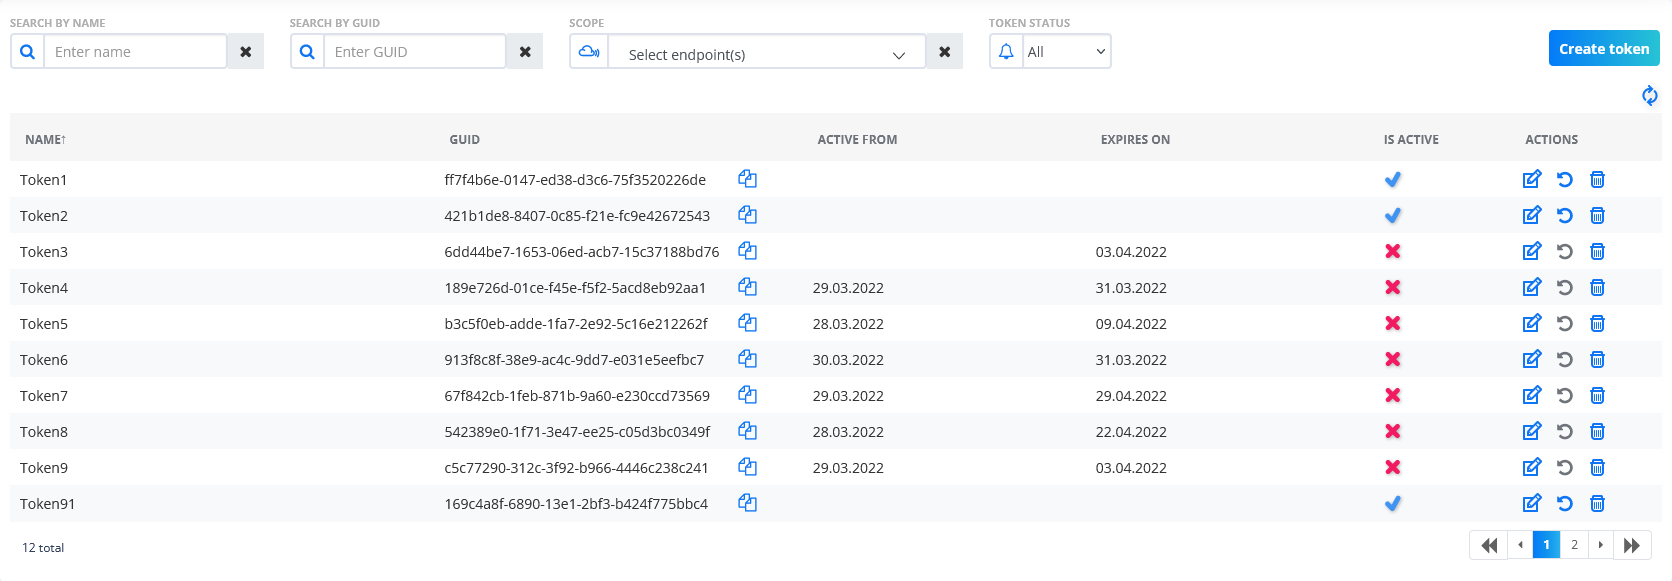
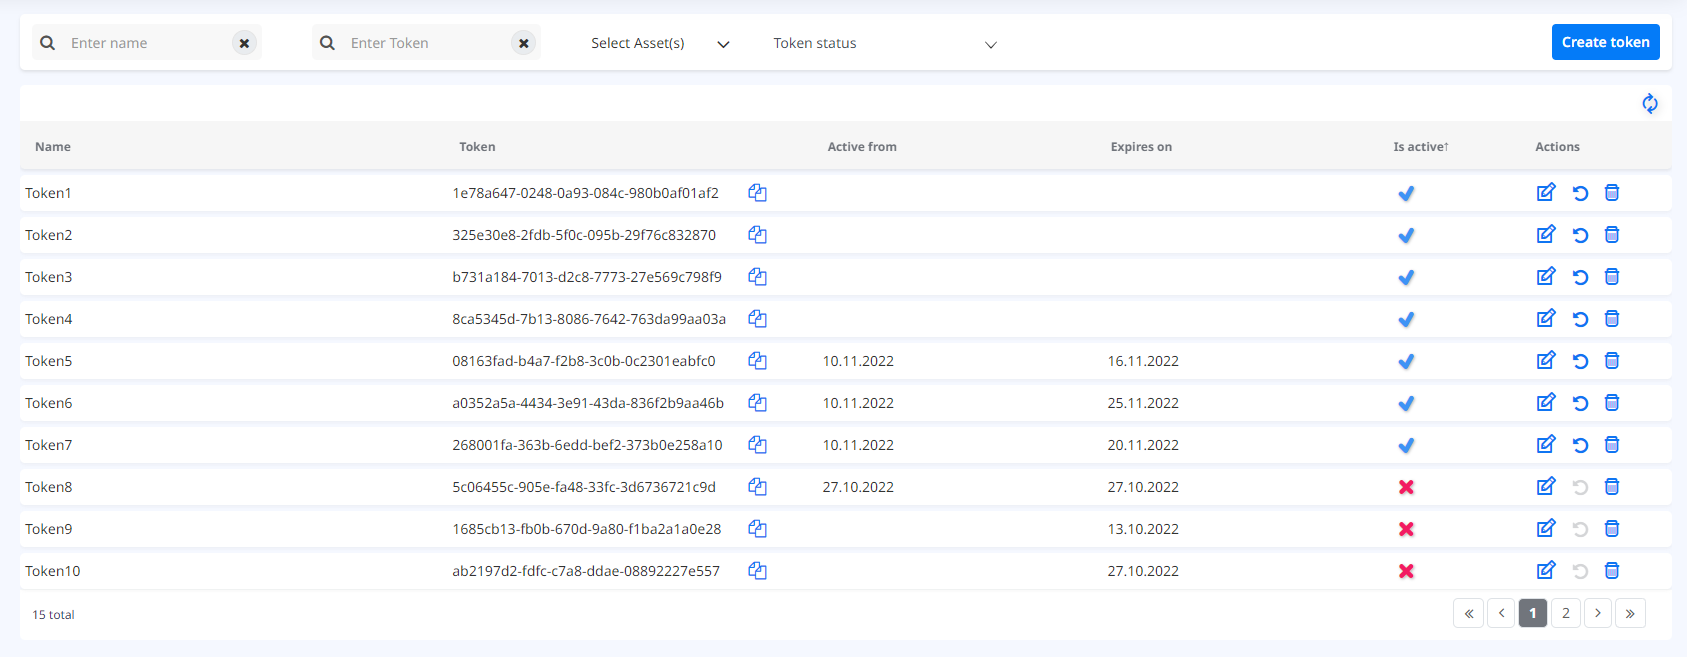
Update API Tokens usage docs

diff --git a/docs/settings/api-tokens/index.html b/docs/settings/api-tokens/index.html
@@ -201,6 +201,7 @@ if (!doNotTrack) {
     <li><a href="#edit-token">Edit token</a></li>
     <li><a href="#delete-token">Delete token</a></li>
     <li><a href="#revoke-token">Revoke token</a></li>
+    <li><a href="#usage-of-api-tokens">Usage of API Tokens</a></li>
   </ul>
 </nav>
 </div>
@@ -221,23 +222,23 @@ if (!doNotTrack) {
 </p>
 
 <figure class="image_container">
-    <img class="center_image myImg" onClick="reply_click(this)"  id="apiTokensView" src="/apiTokensView.png" alt="API Tokens View">
-    <figcaption>Fig 1. APi Tokens View</figcaption>
+    <img class="center_image myImg" onClick="reply_click(this)"  id="apiTokensView" src="/APITokensView.png" alt="API Tokens View">
+    <figcaption>Fig 1. API Tokens View</figcaption>
 </figure>
-<p>The table lists all the API Tokens for selected Scopes that are available for the current User. The table shows the name, GUID, Active from date, Expiration date, and Token status information (Is active column). You can filter the content in the table by activating the Search by name, Search by GUID, Scope and Token status filters.</p>
+<p>The table lists all the API Tokens for selected Scopes that are available for the current User. The table shows the name, GUID, Active from date, Expiration date, and Token status information (Is active column). You can filter the content in the table by name, Token, Asset(s) and Token status filters.</p>
 <figure class="image_container">
-    <img class="center_image myImg" onClick="reply_click(this)"  id="apiTokensFiltersOptions" src="/apiTokensFiltersOptions.png" alt="API Tokens Filters">
-    <figcaption>Fig 2. APi Tokens Filters</figcaption>
+    <img class="center_image myImg" onClick="reply_click(this)"  id="apiTokensFiltersOptions" src="/APITokensFilters.png" alt="API Tokens Filters">
+    <figcaption>Fig 2. API Tokens Filters</figcaption>
 </figure>
-<p>In the Search by Name filter you can search by one or more keywords and filter your Tokens by name. In the Search by GUID filter you can search tokens by GUID. You can easily copy Token’s GUID by clicking the <img src="/apiTokensCopy.png"> button, right next to the GUID value in the GUID column. In the <a href="/glossary#scope">Scopes</a> filter, the user can filter the Tokens by the scopes that are assigned to the current User. In the Token status filter the user can filter the Tokens by their status (Active or Inactive). 
+<p>In the Name search filter you can search by one or more keywords and filter your Tokens by name. In the Token search filter you can search tokens by Token. You can easily copy Token’s token GUID by clicking the <img src="/apiTokensCopy.png"> button, right next to the Token value in the Token column. In the <a href="/glossary#assetScope">Assets</a> filter, the user can filter the Tokens by the asset scopes that are assigned to the current User. In the Token status filter the user can filter the Tokens by their status (Active or Inactive). 
 You can sort the table content by Name and by Is active columns.</p>
 <h2 id="create-token">Create token</h2>
 <p>If you click the <img src="/apiTokensCreateButton.png"> button a popup form appears</p>
 <figure class="image_container">
-    <img class="center_image myImg" onClick="reply_click(this)"  id="apiTokensCreateTokensPopUp" src="/apiTokensCreateTokensPopUp.png" alt="Create API Token">
-    <figcaption>Fig 3. Create APi Token</figcaption>
+    <img class="center_image myImg" onClick="reply_click(this)"  id="apiTokensCreateTokensPopUp" src="/CreateAPIToken.png" alt="Create API Token">
+    <figcaption>Fig 3. Create API Token</figcaption>
 </figure>
-<p>Name and <a href="/glossary#scope">Scopes</a> fields are required. GUID field is automatically populated and disabled, it cannot be edited. In order to copy the GUID value click on the <img src="/apiTokensCopy1.png"> button. If you want to regenerate a new GUID value, click on the <img src="/apiTokensRegenerate.png"> button. Description, Valid from and Valid to fields are optional. If you create a token without Valid from and Valid to values, the token is active from the moment of creation and will be active forever. Past dates in the calendar menu are disabled.</p>
+<p>Name and <a href="/glossary#assetScope">Assets</a> fields are required. Token field is automatically populated and disabled, it cannot be edited. In order to copy the Token GUID value click on the <img src="/apiTokensCopy1.png"> button. If you want to regenerate a new Token GUID value, click on the <img src="/apiTokensRegenerate.png"> button. Description, Valid from and Valid to fields are optional. If you create a token without Valid from and Valid to values, the token is active from the moment of creation and will be active forever. Past dates in the calendar menu are disabled.</p>
 <figure class="image_container">
     <img class="center_image myImg" onClick="reply_click(this)"  id="apiTokensCalendar" src="/apiTokensCalendar.png" alt="apiTokensCalendar"  style="width: 35%;">
 <figcaption>Fig 4. Calendar</figcaption>
@@ -247,7 +248,7 @@ After you are done configuring the token save the token by clicking the <img src
 <h2 id="edit-token">Edit token</h2>
 <p>To edit a token, click the <img src="/apiTokensEdit.png"> button after which a filled form will appear in which you can make the changes.</p>
 <figure class="image_container">
-    <img class="center_image myImg" onClick="reply_click(this)"  id="apiTokensEditPopUp" src="/apiTokensEditPopUp.png" alt="Edit Token" >
+    <img class="center_image myImg" onClick="reply_click(this)"  id="apiTokensEditPopUp" src="/EditAPIToken.png" alt="Edit Token" >
 <figcaption>Fig 5. Edit Token</figcaption>
 </figure>
 <h2 id="delete-token">Delete token</h2>
@@ -261,6 +262,16 @@ After you are done configuring the token save the token by clicking the <img src
 <figure class="image_container">
     <img class="center_image myImg" onClick="reply_click(this)"  id="apiTokensRevokePopUp" src="/apiTokensRevokePopUp.png" alt="Revoke Token" style="width: 35%;">
 <figcaption>Fig 7. Revoke Token</figcaption>
+</figure>
+<h2 id="usage-of-api-tokens">Usage of API Tokens</h2>
+<p>You can use API Tokens in API requests by tool for API requests. In order to get the latest values for selected tags in the token, 
+a GET request should be made to URL <a href="https://api.qlarm.com/api/apiTokenAccess/getTagsByToken">https://api.qlarm.com/api/apiTokenAccess/getTagsByToken</a> with two request headers: <br>
+header name: &ldquo;Tenant&rdquo;, header value: (e.g.)&ldquo;Tenant_name&rdquo; and <br />
+header name: &ldquo;ApiToken&rdquo;, header value: (e.g. see Fig 1)&ldquo;7c9fc2bf-f94a-b554-6b75-9d4ff6b5025d&rdquo;.</p>
+<p>ApiToken header value can be copied from Qlarm API Tokens page. Using this getTagsByToken API request, the user will be able to get the latest values for token&rsquo;s selected tags, in the response.</p>
+<figure class="image_container">
+    <img class="center_image myImg" onClick="reply_click(this)"  id="copyTokenForHeader" src="/CopyToken.png" alt="Copy API Token for request header" style="width: 35%;">
+<figcaption>Fig 8. Copy API Token for request header </figcaption>
 </figure>
 <script>
 // Get the modal

diff --git a/content/settings/api-tokens/_index.md b/content/settings/api-tokens/_index.md
@@ -16,18 +16,18 @@ In the API Tokens page you can list, create, edit, delete and revoke API Tokens.
 {{</lead>}}
 
 <figure class="image_container">
-    <img class="center_image myImg" onClick="reply_click(this)"  id="apiTokensView" src="/apiTokensView.png" alt="API Tokens View">
-    <figcaption>Fig 1. APi Tokens View</figcaption>
+    <img class="center_image myImg" onClick="reply_click(this)"  id="apiTokensView" src="/APITokensView.png" alt="API Tokens View">
+    <figcaption>Fig 1. API Tokens View</figcaption>
 </figure>
 
-The table lists all the API Tokens for selected Scopes that are available for the current User. The table shows the name, GUID, Active from date, Expiration date, and Token status information (Is active column). You can filter the content in the table by activating the Search by name, Search by GUID, Scope and Token status filters. 
+The table lists all the API Tokens for selected Scopes that are available for the current User. The table shows the name, GUID, Active from date, Expiration date, and Token status information (Is active column). You can filter the content in the table by name, Token, Asset(s) and Token status filters. 
 
 <figure class="image_container">
-    <img class="center_image myImg" onClick="reply_click(this)"  id="apiTokensFiltersOptions" src="/apiTokensFiltersOptions.png" alt="API Tokens Filters">
-    <figcaption>Fig 2. APi Tokens Filters</figcaption>
+    <img class="center_image myImg" onClick="reply_click(this)"  id="apiTokensFiltersOptions" src="/APITokensFilters.png" alt="API Tokens Filters">
+    <figcaption>Fig 2. API Tokens Filters</figcaption>
 </figure>
 
-In the Search by Name filter you can search by one or more keywords and filter your Tokens by name. In the Search by GUID filter you can search tokens by GUID. You can easily copy Token’s GUID by clicking the <img src="/apiTokensCopy.png"> button, right next to the GUID value in the GUID column. In the [Scopes](/glossary#scope) filter, the user can filter the Tokens by the scopes that are assigned to the current User. In the Token status filter the user can filter the Tokens by their status (Active or Inactive). 
+In the Name search filter you can search by one or more keywords and filter your Tokens by name. In the Token search filter you can search tokens by Token. You can easily copy Token’s token GUID by clicking the <img src="/apiTokensCopy.png"> button, right next to the Token value in the Token column. In the [Assets](/glossary#assetScope) filter, the user can filter the Tokens by the asset scopes that are assigned to the current User. In the Token status filter the user can filter the Tokens by their status (Active or Inactive). 
 You can sort the table content by Name and by Is active columns.
 
 ## Create token
@@ -35,11 +35,11 @@ You can sort the table content by Name and by Is active columns.
 If you click the <img src="/apiTokensCreateButton.png"> button a popup form appears
 
 <figure class="image_container">
-    <img class="center_image myImg" onClick="reply_click(this)"  id="apiTokensCreateTokensPopUp" src="/apiTokensCreateTokensPopUp.png" alt="Create API Token">
-    <figcaption>Fig 3. Create APi Token</figcaption>
+    <img class="center_image myImg" onClick="reply_click(this)"  id="apiTokensCreateTokensPopUp" src="/CreateAPIToken.png" alt="Create API Token">
+    <figcaption>Fig 3. Create API Token</figcaption>
 </figure>
 
-Name and [Scopes](/glossary#scope) fields are required. GUID field is automatically populated and disabled, it cannot be edited. In order to copy the GUID value click on the <img src="/apiTokensCopy1.png"> button. If you want to regenerate a new GUID value, click on the <img src="/apiTokensRegenerate.png"> button. Description, Valid from and Valid to fields are optional. If you create a token without Valid from and Valid to values, the token is active from the moment of creation and will be active forever. Past dates in the calendar menu are disabled.
+Name and [Assets](/glossary#assetScope) fields are required. Token field is automatically populated and disabled, it cannot be edited. In order to copy the Token GUID value click on the <img src="/apiTokensCopy1.png"> button. If you want to regenerate a new Token GUID value, click on the <img src="/apiTokensRegenerate.png"> button. Description, Valid from and Valid to fields are optional. If you create a token without Valid from and Valid to values, the token is active from the moment of creation and will be active forever. Past dates in the calendar menu are disabled.
 
 
 <figure class="image_container">
@@ -55,7 +55,7 @@ After you are done configuring the token save the token by clicking the <img src
 To edit a token, click the <img src="/apiTokensEdit.png"> button after which a filled form will appear in which you can make the changes.
 
 <figure class="image_container">
-    <img class="center_image myImg" onClick="reply_click(this)"  id="apiTokensEditPopUp" src="/apiTokensEditPopUp.png" alt="Edit Token" >
+    <img class="center_image myImg" onClick="reply_click(this)"  id="apiTokensEditPopUp" src="/EditAPIToken.png" alt="Edit Token" >
 <figcaption>Fig 5. Edit Token</figcaption>
 </figure>
 
@@ -76,6 +76,21 @@ To revoke a token, click the <img src="/apiTokensRevoke.png"> button after which
     <img class="center_image myImg" onClick="reply_click(this)"  id="apiTokensRevokePopUp" src="/apiTokensRevokePopUp.png" alt="Revoke Token" style="width: 35%;">
 <figcaption>Fig 7. Revoke Token</figcaption>
 </figure>
+
+## Usage of API Tokens
+
+You can use API Tokens in API requests by tool for API requests. In order to get the latest values for selected tags in the token, 
+a GET request should be made to URL https://api.qlarm.com/api/apiTokenAccess/getTagsByToken with two request headers: <br>
+header name: "Tenant", header value: (e.g.)"Tenant_name" and <br />
+header name: "ApiToken", header value: (e.g. see Fig 1)"7c9fc2bf-f94a-b554-6b75-9d4ff6b5025d".
+
+ApiToken header value can be copied from Qlarm API Tokens page. Using this getTagsByToken API request, the user will be able to get the latest values for token's selected tags, in the response.
+
+<figure class="image_container">
+    <img class="center_image myImg" onClick="reply_click(this)"  id="copyTokenForHeader" src="/CopyToken.png" alt="Copy API Token for request header" style="width: 35%;">
+<figcaption>Fig 8. Copy API Token for request header </figcaption>
+</figure>
+
 
 <script>
 // Get the modal
